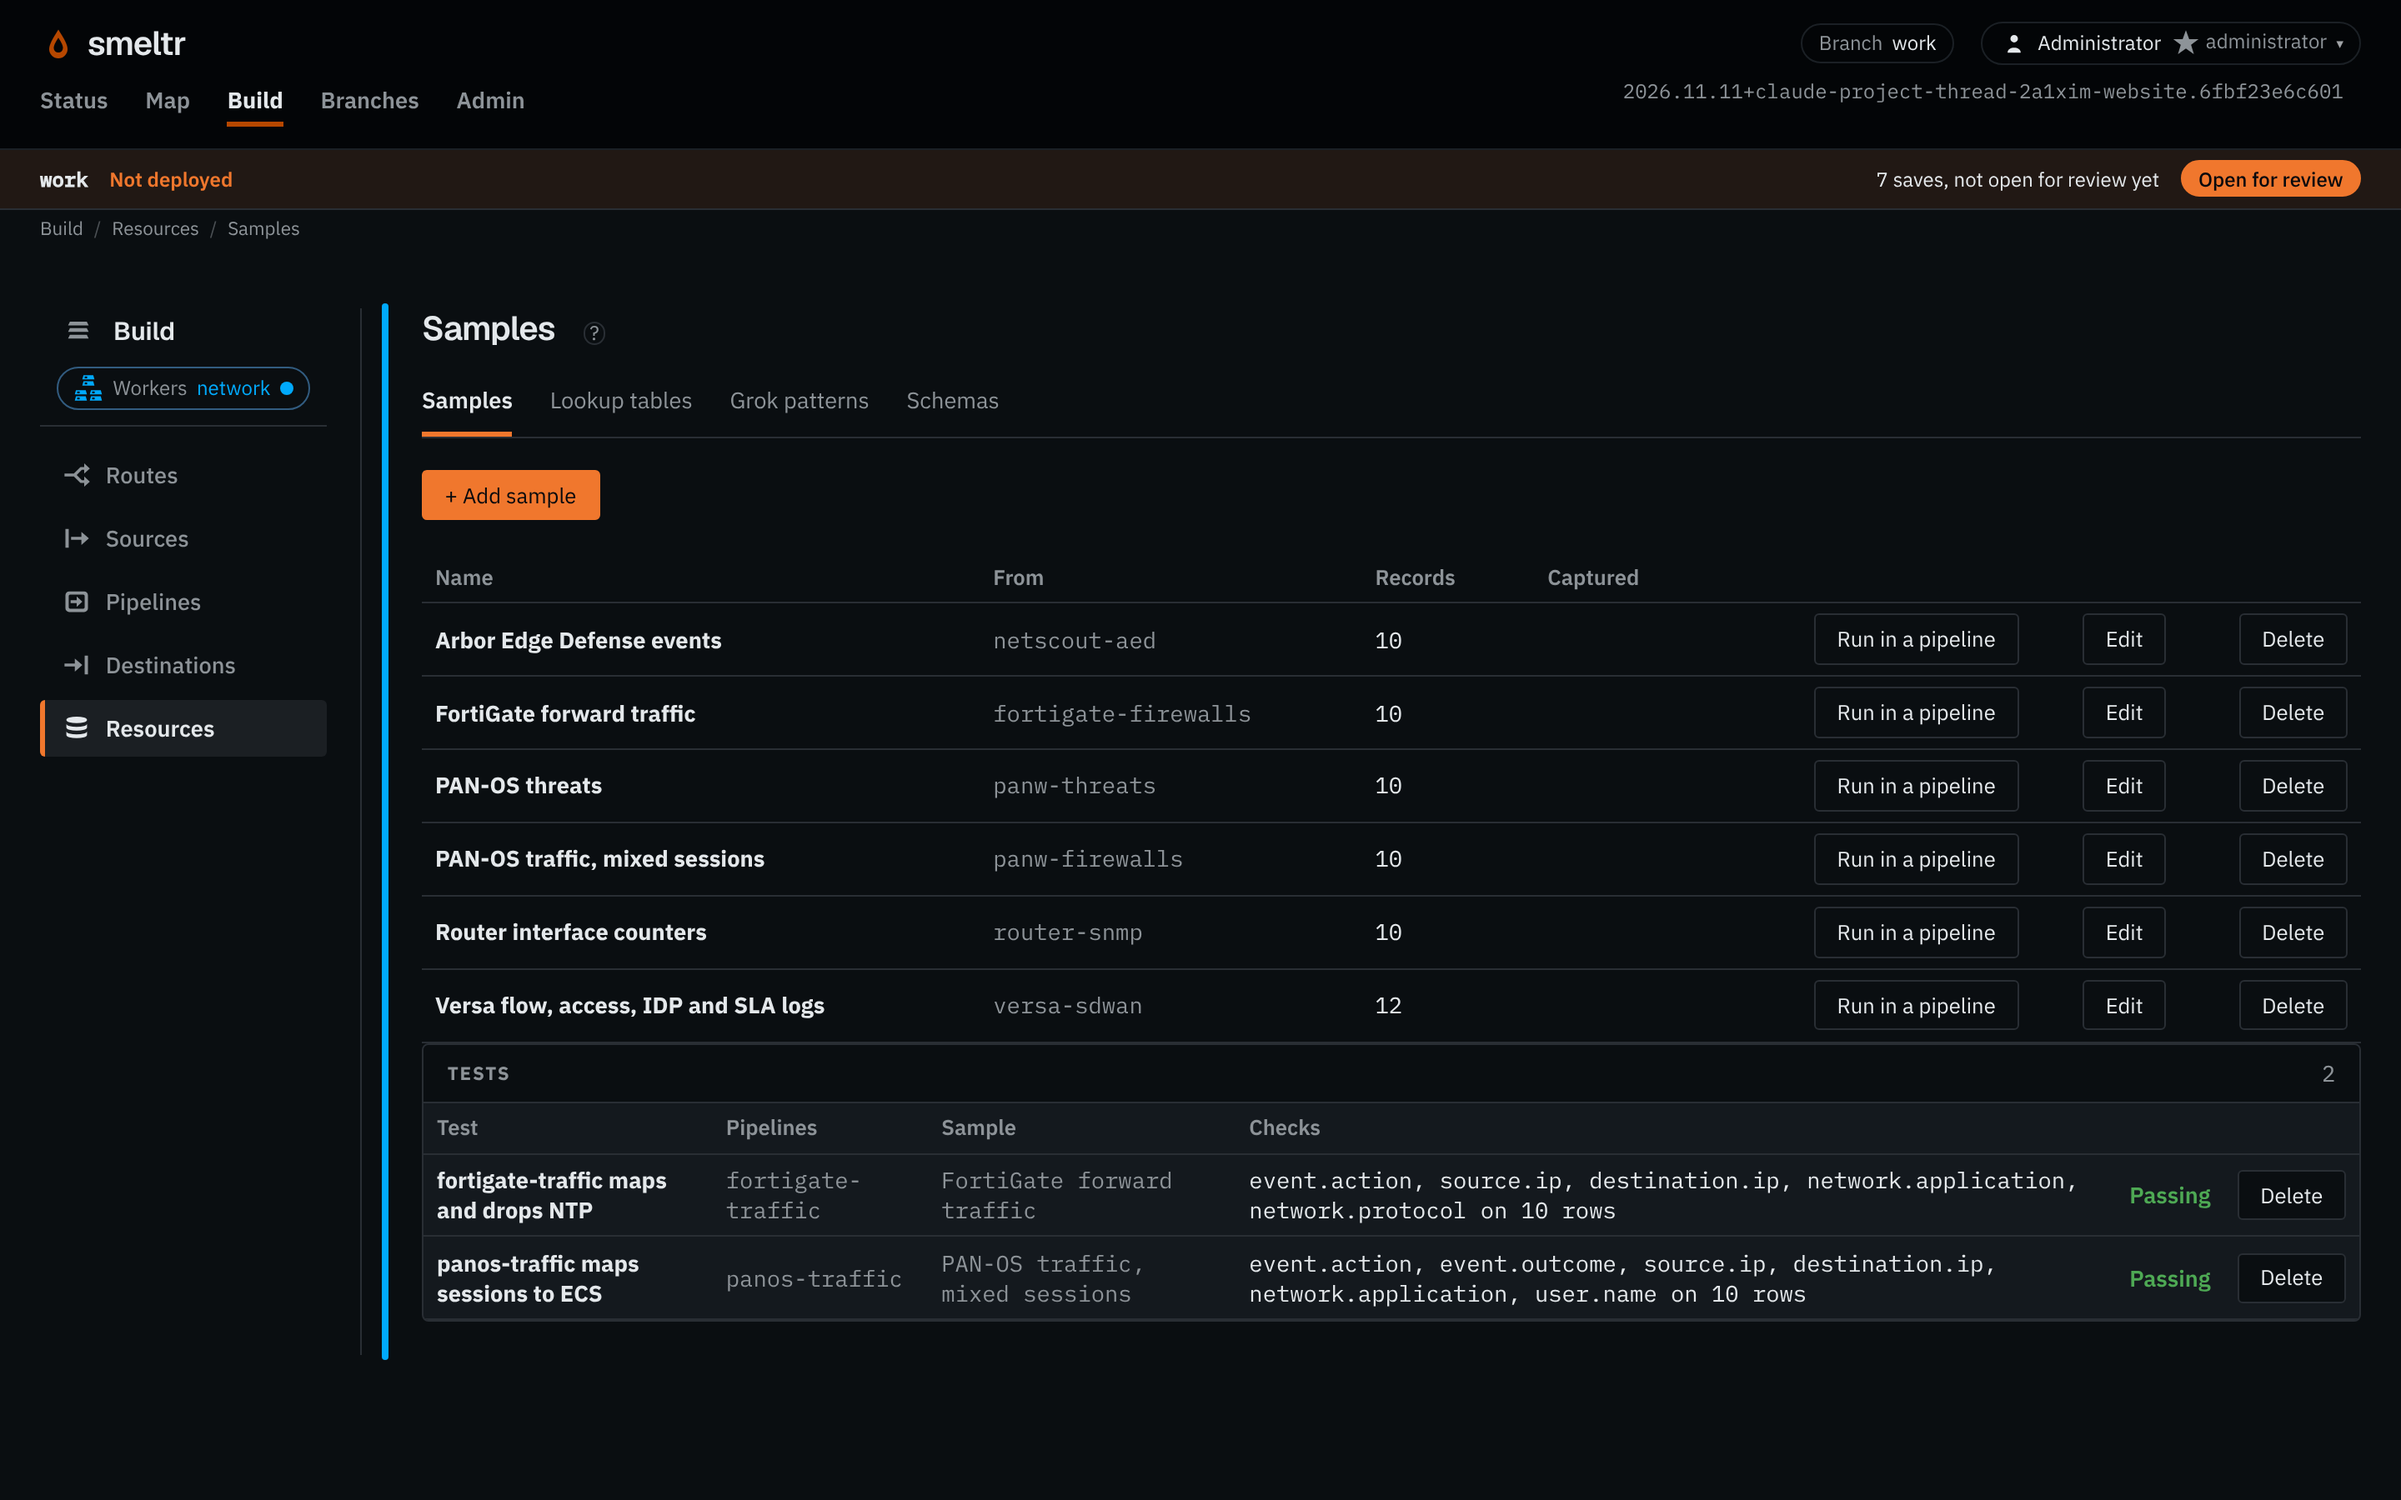
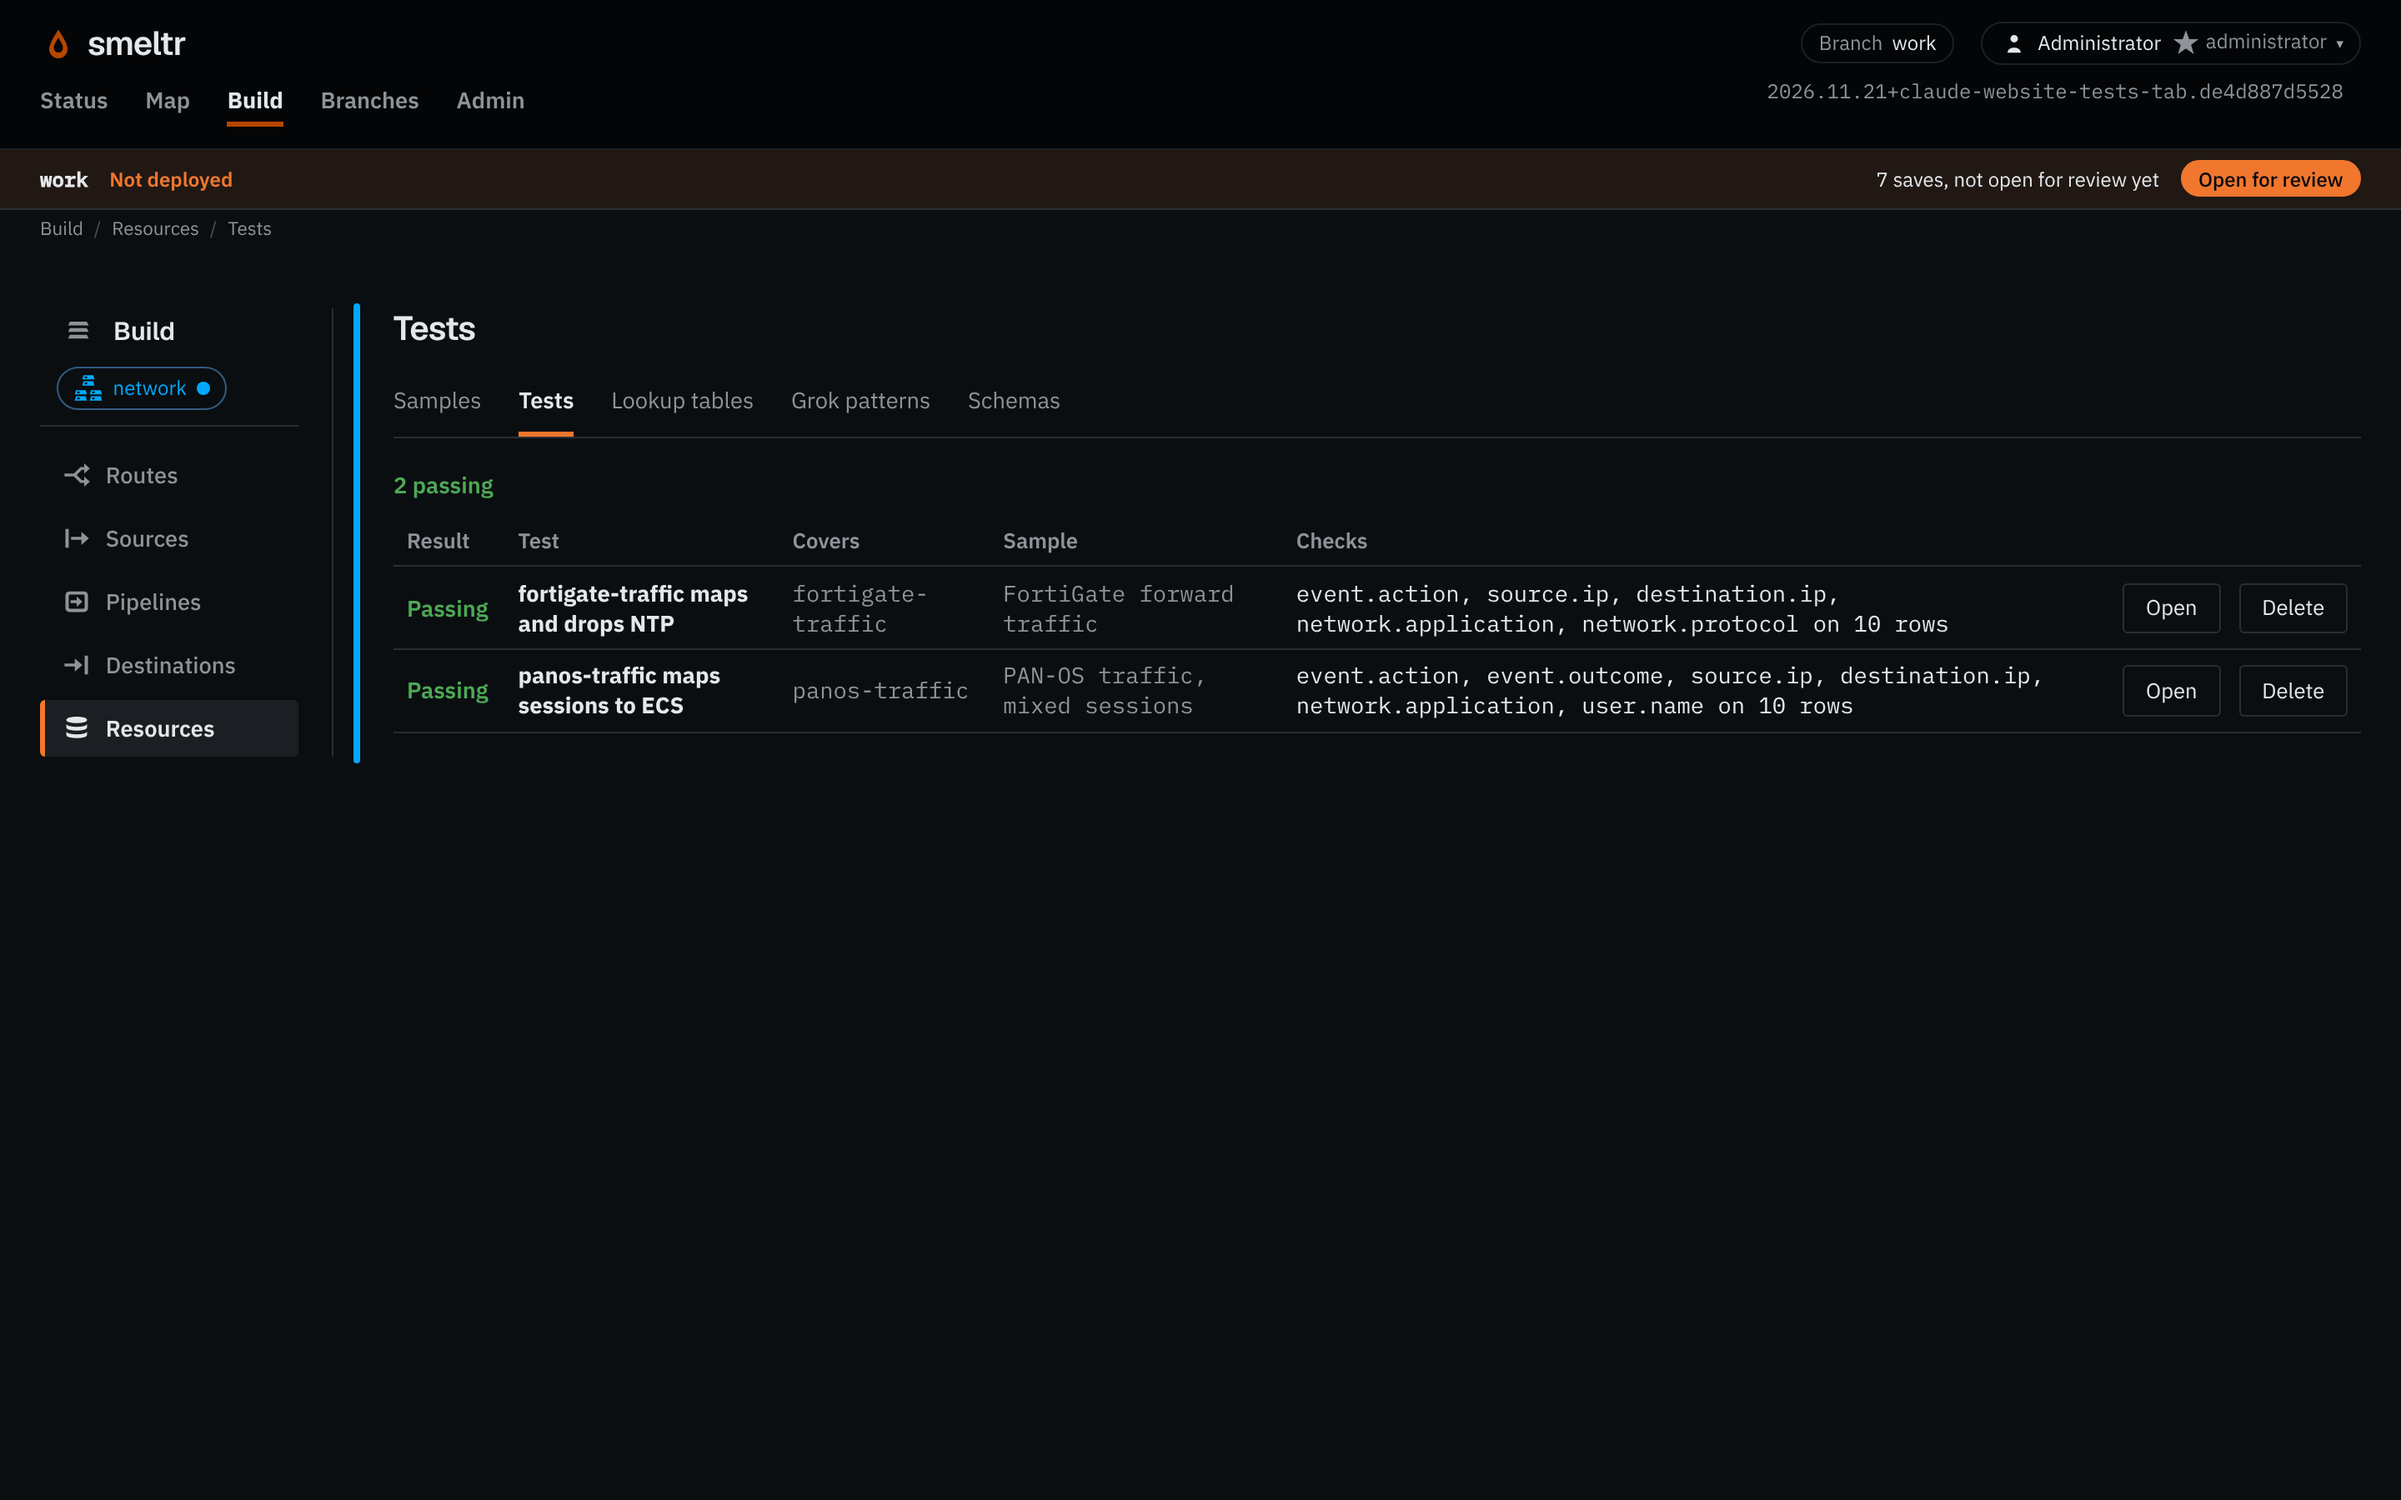
Website: Verify points to the Tests tab (#875)
Tests have their own tab in Build › Resources (#865), so the Verify section says to run them there, and how
Open and the sample menu show what a test checks. The build-tests shot is retaken on the Tests tab.

Claude-Session: https://claude.ai/code/session_016X7h2U6E8yANt4wujx14Z3

diff --git a/website/src/routes/docs/steps/+page.svelte b/website/src/routes/docs/steps/+page.svelte
@@ -75,15 +75,21 @@
     Once the preview is right, show the fields that matter with <strong>Fields</strong>, narrow the
     rows with the find box, and choose <strong>Lock this as a test</strong>. The test checks those
     fields on those rows, and whether each row is dropped, and nothing else, so an edit elsewhere
-    leaves it passing. A sample can carry several tests, each checking its own fields and rows. Open
-    Resources → Samples to run every test again. A failing test names the row and the field, what it
-    expected and what it got.
+    leaves it passing. A sample can carry several tests, each checking its own fields and rows.
+  </p>
+  <p>
+    Build → Resources → Tests runs every test again. A failing test names the row and the field,
+    what it expected and what it got. <strong>Open</strong> shows a test where it was locked, on its
+    sample with the fields and rows it checks, and <strong>Lock this test again</strong> locks what is
+    on screen in its place. The sample menu in the pipeline editor lists the pipeline's tests above its
+    samples, so you can open one from there too.
   </p>
   <ProductScreenshot
     source="build-tests"
     height={1800}
-    alt="Samples page with two passing firewall pipeline tests, each listing the fields it checks on 10 rows."
-    caption="Each test lists the fields it checks."
+    crop={{ x: 0, y: 0, width: 2880, height: 960 }}
+    alt="Tests page with two passing firewall pipeline tests, each listing the fields it checks on 10 rows."
+    caption="Each test lists what it covers and the fields it checks."
   />
 
   <h2 id="troubleshooting">Troubleshooting</h2>
